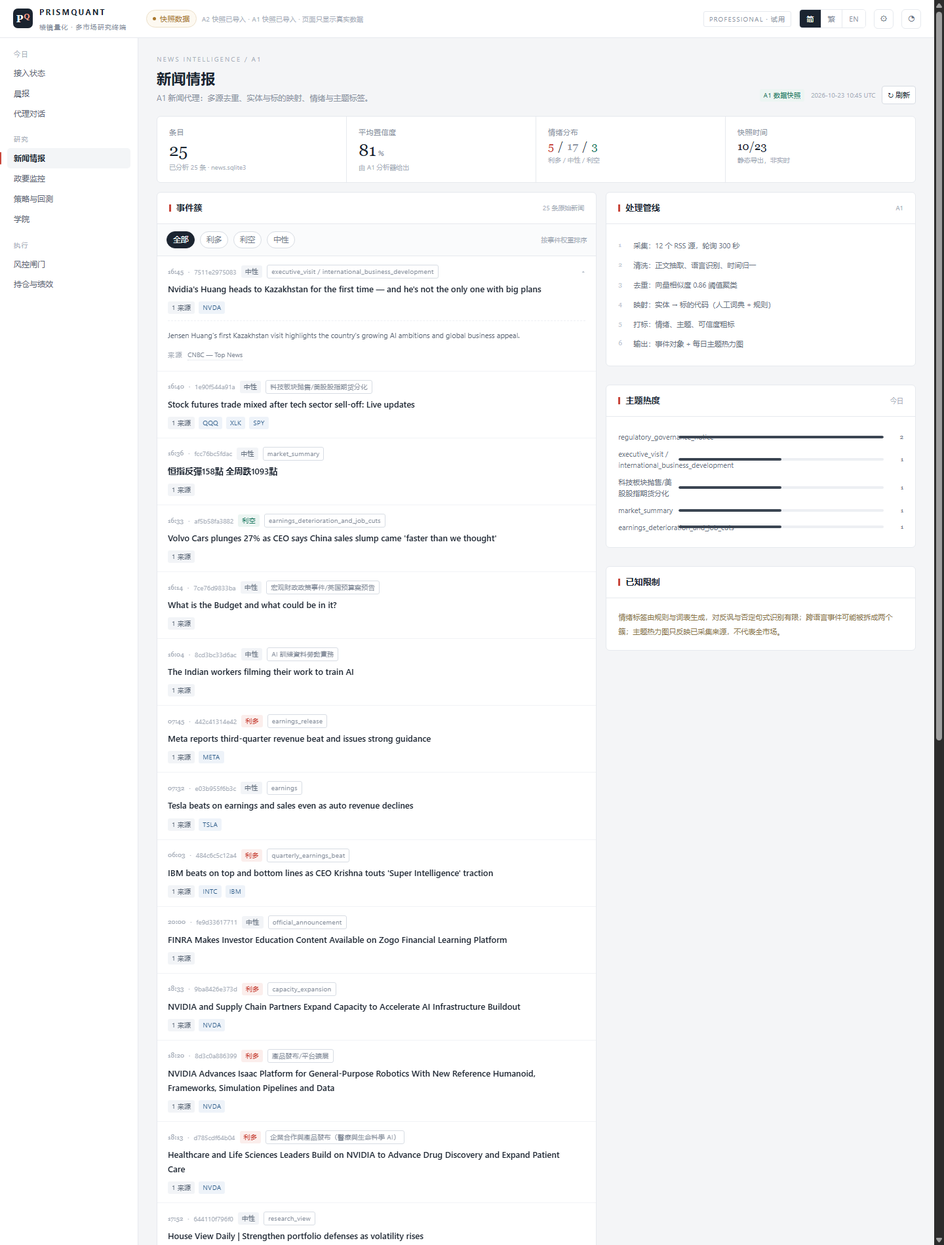
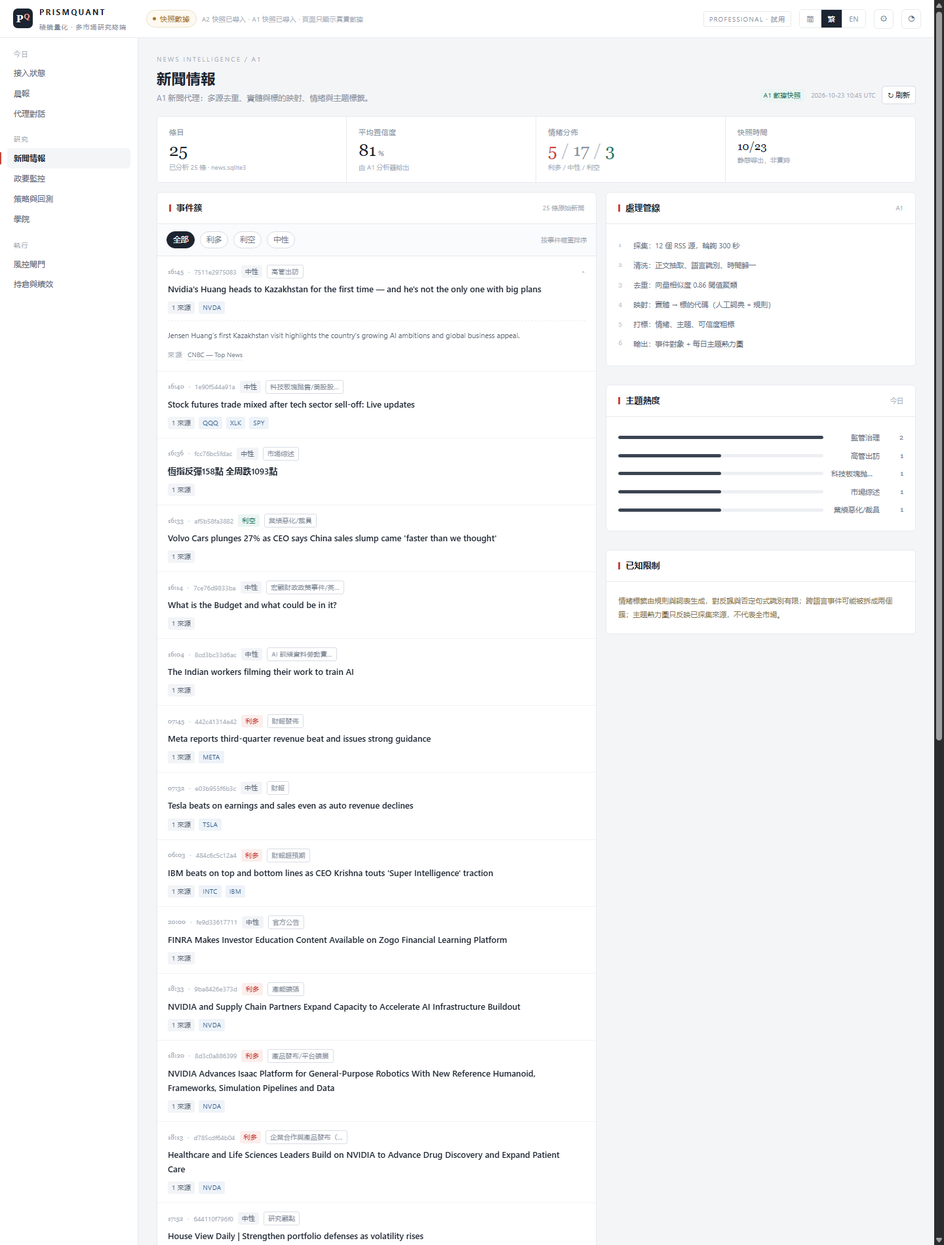
ui: news page polish + Traditional Chinese default
- default language is now Traditional Chinese (zh-Hant); still switchable
- topic labels: map LLM's English underscore topics to short Chinese
  (regulatory_governance_notice -> 監管治理, etc.), compound topics like
  'executive_visit / international_business_development' now resolve
- sentiment distribution digits now full-size, aligned with other stat cards
- topic heat bars: wider label column, right-aligned, ellipsis on overflow
- add missing HANT_CHAR entries (术->術, 细->細)

diff --git a/index.html b/index.html
@@ -498,7 +498,7 @@ dialog::backdrop{background:rgb(27 36 48 / 32%)}
 </style>
 <script>
 /* Simplified -> Traditional (Hong Kong) lookup, generated with OpenCC s2hk. */
-const HANT_CHAR = {"万":"萬","与":"與","专":"專","业":"業","东":"東","两":"兩","个":"個","临":"臨","为":"為","么":"麼","义":"義","书":"書","买":"買","于":"於","亏":"虧","云":"雲","产":"產","亿":"億","仅":"僅","从":"從","仓":"倉","们":"們","价":"價","众":"眾","优":"優","会":"會","伟":"偉","体":"體","余":"餘","债":"債","关":"關","内":"內","写":"寫","决":"決","净":"淨","准":"準","减":"減","凭":"憑","击":"擊","则":"則","刚":"剛","别":"別","剧":"劇","务":"務","动":"動","势":"勢","区":"區","单":"單","占":"佔","历":"歷","压":"壓","参":"參","发":"發","变":"變","叠":"疊","号":"號","后":"後","吗":"嗎","听":"聽","启":"啓","员":"員","响":"響","围":"圍","国":"國","图":"圖","场":"場","块":"塊","墙":"牆","处":"處","备":"備","复":"復","够":"夠","学":"學","实":"實","对":"對","导":"導","将":"將","尝":"嘗","层":"層","属":"屬","峰":"峯","币":"幣","带":"帶","干":"幹","并":"並","库":"庫","应":"應","开":"開","弃":"棄","张":"張","强":"強","归":"歸","当":"當","录":"錄","征":"徵","径":"徑","态":"態","总":"總","恒":"恆","恶":"惡","愿":"願","托":"託","执":"執","扩":"擴","护":"護","报":"報","拟":"擬","拥":"擁","拦":"攔","择":"擇","挂":"掛","挡":"擋","挥":"揮","损":"損","换":"換","据":"據","撑":"撐","敛":"斂","数":"數","断":"斷","无":"無","时":"時","显":"顯","暂":"暫","机":"機","权":"權","杠":"槓","条":"條","来":"來","极":"極","构":"構","标":"標","样":"樣","档":"檔","检":"檢","棱":"稜","欧":"歐","毕":"畢","汇":"匯","没":"沒","测":"測","济":"濟","浏":"瀏","涨":"漲","点":"點","热":"熱","状":"狀","独":"獨","献":"獻","环":"環","现":"現","电":"電","监":"監","盖":"蓋","盘":"盤","码":"碼","础":"礎","确":"確","稳":"穩","笔":"筆","筛":"篩","签":"籤","类":"類","紧":"緊","约":"約","级":"級","纪":"紀","纯":"純","纳":"納","线":"線","组":"組","终":"終","经":"經","结":"結","绕":"繞","给":"給","绝":"絕","统":"統","绩":"績","绪":"緒","续":"續","维":"維","编":"編","缩":"縮","网":"網","联":"聯","胀":"脹","脑":"腦","腾":"騰","节":"節","获":"獲","装":"裝","见":"見","观":"觀","规":"規","览":"覽","触":"觸","计":"計","订":"訂","认":"認","讨":"討","让":"讓","议":"議","讯":"訊","记":"記","论":"論","讽":"諷","设":"設","访":"訪","证":"證","评":"評","识":"識","词":"詞","试":"試","话":"話","询":"詢","该":"該","详":"詳","语":"語","说":"説","请":"請","读":"讀","课":"課","调":"調","负":"負","贡":"貢","财":"財","败":"敗","账":"賬","货":"貨","质":"質","贴":"貼","贸":"貿","费":"費","资":"資","赖":"賴","赛":"賽","趋":"趨","踪":"蹤","转":"轉","轮":"輪","载":"載","较":"較","输":"輸","辞":"辭","边":"邊","达":"達","过":"過","运":"運","还":"還","这":"這","进":"進","连":"連","迟":"遲","适":"適","选":"選","邮":"郵","采":"採","释":"釋","里":"裡","钟":"鍾","链":"鏈","错":"錯","键":"鍵","镜":"鏡","长":"長","门":"門","闭":"閉","问":"問","间":"間","闸":"閘","闻":"聞","阅":"閲","阈":"閾","队":"隊","阶":"階","际":"際","险":"險","随":"隨","隐":"隱","页":"頁","顶":"頂","项":"項","顺":"順","须":"須","顾":"顧","预":"預","领":"領","频":"頻","题":"題","额":"額","风":"風","验":"驗","黄":"黃"};
+const HANT_CHAR = {"万":"萬","与":"與","专":"專","业":"業","东":"東","两":"兩","个":"個","临":"臨","为":"為","么":"麼","义":"義","书":"書","买":"買","于":"於","亏":"虧","云":"雲","产":"產","亿":"億","仅":"僅","从":"從","仓":"倉","们":"們","价":"價","众":"眾","优":"優","会":"會","伟":"偉","体":"體","余":"餘","债":"債","关":"關","内":"內","写":"寫","决":"決","净":"淨","准":"準","减":"減","凭":"憑","击":"擊","则":"則","刚":"剛","别":"別","剧":"劇","务":"務","动":"動","势":"勢","区":"區","单":"單","占":"佔","历":"歷","压":"壓","参":"參","发":"發","变":"變","叠":"疊","号":"號","后":"後","吗":"嗎","听":"聽","启":"啓","员":"員","响":"響","围":"圍","国":"國","图":"圖","场":"場","块":"塊","墙":"牆","处":"處","备":"備","复":"復","够":"夠","学":"學","实":"實","对":"對","导":"導","将":"將","尝":"嘗","层":"層","属":"屬","峰":"峯","币":"幣","带":"帶","干":"幹","并":"並","库":"庫","应":"應","开":"開","弃":"棄","张":"張","强":"強","归":"歸","当":"當","录":"錄","征":"徵","径":"徑","态":"態","总":"總","恒":"恆","恶":"惡","愿":"願","托":"託","执":"執","扩":"擴","护":"護","报":"報","拟":"擬","拥":"擁","拦":"攔","择":"擇","挂":"掛","挡":"擋","挥":"揮","损":"損","换":"換","据":"據","撑":"撐","敛":"斂","数":"數","断":"斷","无":"無","时":"時","显":"顯","暂":"暫","机":"機","权":"權","杠":"槓","条":"條","来":"來","极":"極","构":"構","标":"標","样":"樣","档":"檔","检":"檢","棱":"稜","欧":"歐","毕":"畢","汇":"匯","没":"沒","测":"測","济":"濟","浏":"瀏","涨":"漲","点":"點","热":"熱","状":"狀","独":"獨","献":"獻","环":"環","现":"現","电":"電","监":"監","盖":"蓋","盘":"盤","码":"碼","础":"礎","确":"確","稳":"穩","笔":"筆","筛":"篩","签":"籤","类":"類","紧":"緊","约":"約","级":"級","纪":"紀","纯":"純","纳":"納","线":"線","组":"組","终":"終","经":"經","结":"結","绕":"繞","给":"給","绝":"絕","统":"統","绩":"績","绪":"緒","续":"續","维":"維","编":"編","缩":"縮","网":"網","联":"聯","胀":"脹","脑":"腦","腾":"騰","节":"節","获":"獲","装":"裝","见":"見","观":"觀","规":"規","览":"覽","触":"觸","计":"計","订":"訂","认":"認","讨":"討","让":"讓","议":"議","讯":"訊","记":"記","论":"論","讽":"諷","设":"設","访":"訪","证":"證","评":"評","识":"識","词":"詞","试":"試","话":"話","询":"詢","该":"該","详":"詳","语":"語","说":"説","请":"請","读":"讀","课":"課","调":"調","负":"負","贡":"貢","财":"財","败":"敗","账":"賬","货":"貨","质":"質","贴":"貼","贸":"貿","费":"費","资":"資","赖":"賴","赛":"賽","趋":"趨","踪":"蹤","转":"轉","轮":"輪","载":"載","较":"較","输":"輸","辞":"辭","边":"邊","达":"達","过":"過","运":"運","还":"還","这":"這","进":"進","连":"連","迟":"遲","适":"適","选":"選","邮":"郵","采":"採","释":"釋","里":"裡","钟":"鍾","链":"鏈","错":"錯","键":"鍵","镜":"鏡","长":"長","门":"門","闭":"閉","问":"問","间":"間","闸":"閘","闻":"聞","阅":"閲","阈":"閾","队":"隊","阶":"階","际":"際","险":"險","随":"隨","隐":"隱","页":"頁","顶":"頂","项":"項","顺":"順","须":"須","顾":"顧","预":"預","领":"領","频":"頻","题":"題","额":"額","风":"風","验":"驗","黄":"黃","术":"術","细":"細"};
 const HANT_PHRASE = {"好贴合历":"好貼合曆","杠杆与现":"槓桿與現","闻归并为":"聞歸併為","组合杠杆":"組合槓桿","周期通常":"週期通常","分钟阅读":"分鐘閲讀","某只标的":"某隻標的","恒生指数":"恒生指數","情绪分布":"情緒分佈","分钟可读":"分鐘可讀","份十分钟":"份十分鐘","仓周期通":"倉週期通","今日干预":"今日干預","复制正文":"複製正文","新闻归并":"新聞歸併","持仓周期":"持倉週期","别强的时":"彆強的時","发布时间":"發佈時間","贴合历史":"貼合曆史","风控干预":"風控干預","十分钟可":"十分鐘可","低杠杆与":"低槓桿與","分钟后自":"分鐘後自","析局公布":"析局公佈","复制正":"複製正","恒生指":"恒生指","杠杆与":"槓桿與","十分钟":"十分鐘","别强的":"彆強的","日干预":"日干預","贴合历":"貼合曆","局公布":"局公佈","绪分布":"緒分佈","周期通":"週期通","低杠杆":"低槓桿","某只标":"某隻標","归并为":"歸併為","控干预":"控干預","今日干":"今日干","合历史":"合曆史","闻归并":"聞歸併","分钟前":"分鐘前","合杠杆":"合槓桿","发布时":"發佈時","已复制":"已複製","分钟阅":"分鐘閲","分钟可":"分鐘可","分钟后":"分鐘後","仓周期":"倉週期","发布":"發佈","干预":"干預","复制":"複製","公布":"公佈","归并":"歸併","分钟":"分鐘","周期":"週期","分布":"分佈","并为":"併為","别强":"彆強","日干":"日干","合历":"合曆","某只":"某隻","杠杆":"槓桿","恒生":"恒生"};
 
 function toHant(s) {
@@ -964,12 +964,58 @@ function viewBriefing() {
 function topicBars() {
   if (LIVE.news) {
     const c = {};
-    LIVE.news.items.forEach(x => { const k = x.topic || (isZh() ? '未分类' : 'Uncategorised'); c[k] = (c[k] || 0) + 1; });
+    LIVE.news.items.forEach(x => { const k = topicLabel(x.topic); c[k] = (c[k] || 0) + 1; });
     return Object.keys(c).map(k => [k, c[k]]).sort((a, b) => b[1] - a[1]).slice(0, 5);
   }
   return [[isZh() ? 'AI 资本开支' : 'AI capex', 9], [isZh() ? '利率路径' : 'Rate path', 7],
           [isZh() ? '出口管制' : 'Export controls', 5], [isZh() ? '资金流' : 'Fund flows', 4],
           [isZh() ? '能源' : 'Energy', 3]];
+}
+// 把 LLM 吐出的英文下划线主题（regulatory_governance_notice）转成短中文标签，
+// 已经是中文的就截断到合理长度。用于主题热度条 + 新闻列表标签。
+const TOPIC_CN = {
+  'regulatory_governance_notice': '监管治理',
+  'regulatory_roundtable_announcement': '监管圆桌',
+  'regulatory': '监管',
+  'earnings_deterioration_and_job_cuts': '业绩恶化/裁员',
+  'earnings_deterioration': '业绩恶化',
+  'quarterly_earnings_beat': '财报超预期',
+  'earnings_release': '财报发布',
+  'earnings': '财报',
+  'market_summary': '市场综述',
+  'macro_policy_commentary': '宏观政策',
+  'macro_policy': '宏观政策',
+  'official_announcement': '官方公告',
+  'capacity_expansion': '产能扩张',
+  'research_view': '研究观点',
+  'executive_visit': '高管出访',
+  'international_business_development': '国际业务',
+  'international_business': '国际业务',
+  'international_markets': '国际市场',
+  'ai': 'AI'
+};
+function topicLabel(raw) {
+  if (!raw) return isZh() ? '未分类' : 'Uncategorised';
+  const s = String(raw).trim();
+  // 已经是中文（含斜杠分隔的复合）→ 截断
+  if (/[\u4e00-\u9fff]/.test(s)) {
+    return s.length > 10 ? s.slice(0, 10) + '…' : s;
+  }
+  const key = s.toLowerCase();
+  // 精确匹配完整串
+  if (TOPIC_CN[key]) return TOPIC_CN[key];
+  // 复合（含 / 或空格）→ 逐段匹配，取第一个命中的
+  const parts = s.split(/[\/\s]+/).filter(Boolean);
+  for (const p of parts) {
+    if (TOPIC_CN[p.toLowerCase()]) return TOPIC_CN[p.toLowerCase()];
+  }
+  // 单段英文 → 去掉下划线取首词再匹配
+  const first = s.split(/[\/\s]+/)[0] || '';
+  const seg = first.split('_')[0];
+  if (TOPIC_CN[seg]) return TOPIC_CN[seg];
+  // 兜底：去掉下划线、首字母大写，截断
+  const cleaned = s.replace(/[_-]+/g, ' ');
+  return cleaned.length > 12 ? cleaned.slice(0, 12) + '…' : cleaned;
 }
 function newsItems() {
   if (!LIVE.news) return D.events;
@@ -978,7 +1024,7 @@ function newsItems() {
     time: x.published_at ? fmtTime(x.published_at, false) : '',
     srcCount: 1,
     sentiment: (x.sentiment === 'pos' || x.sentiment === 'neg') ? x.sentiment : 'neu',
-    topic: x.topic || (isZh() ? '未分类' : 'Uncategorised'),
+    topic: topicLabel(x.topic),
     title: x.title || (isZh() ? '（无标题）' : '(untitled)'),
     summary: x.summary || x.reasoning || '',
     tags: (x.tickers || []).slice(0, 4),
@@ -996,7 +1042,7 @@ function liveNewsStats(items) {
   return `<div class="stats">
     <div class="stat"><div class="k">${isZh() ? '条目' : 'Items'}</div><div class="v">${items.length}</div><div class="d">${isZh() ? '已分析 ' + items.filter(x => x.analyzed).length + ' 条 · ' : ''}${esc(src)}</div></div>
     <div class="stat"><div class="k">${isZh() ? '平均置信度' : 'Mean confidence'}</div><div class="v">${avg === null ? '—' : (avg * 100).toFixed(0) + '<small>%</small>'}</div><div class="d">${isZh() ? '由 A1 分析器给出' : 'from the A1 analyser'}</div></div>
-    <div class="stat"><div class="k">${isZh() ? '情绪分布' : 'Sentiment'}</div><div class="v" style="font-size:17px;letter-spacing:1px"><span class="up">${c.pos}</span> / <span style="color:#8a929f">${c.neu}</span> / <span class="down">${c.neg}</span></div><div class="d">${isZh() ? '利多 / 中性 / 利空' : 'bull / neutral / bear'}</div></div>
+    <div class="stat"><div class="k">${isZh() ? '情绪分布' : 'Sentiment'}</div><div class="v"><span class="up">${c.pos}</span><span style="color:#c3cad4"> / </span><span style="color:#8a929f">${c.neu}</span><span style="color:#c3cad4"> / </span><span class="down">${c.neg}</span></div><div class="d">${isZh() ? '利多 / 中性 / 利空' : 'bull / neutral / bear'}</div></div>
     <div class="stat"><div class="k">${isZh() ? '快照时间' : 'Snapshot'}</div><div class="v" style="font-size:17px">${esc((LIVE.news.generated_at || '').slice(5, 10).replace('-', '/'))}</div><div class="d">${isZh() ? '静态导出，非实时' : 'static export, not live'}</div></div>
   </div>`;
 }
@@ -1076,10 +1122,10 @@ function viewNews() {
              ${(() => {
       const bars = topicBars();
       const max = Math.max.apply(null, bars.map(b => b[1])) || 1;
-      return bars.map(([k, v]) => `<div style="display:grid;grid-template-columns:82px 1fr 20px;gap:10px;align-items:center;padding:4px 0">
-        <span style="font-size:11px;color:#67707d">${esc(k)}</span>
-        <span class="bar" style="height:4px"><i style="width:${(v / max * 100).toFixed(0)}%;background:#3b4552"></i></span>
-        <span class="num" style="font-size:10px;text-align:right;color:#7b8492">${v}</span></div>`).join('');
+      return bars.map(([k, v]) => `<div style="display:grid;grid-template-columns:1fr 74px 24px;gap:12px;align-items:center;padding:5px 0">
+        <span class="bar" style="height:5px"><i style="width:${(v / max * 100).toFixed(0)}%;background:#3b4552"></i></span>
+        <span style="font-size:11px;color:#67707d;text-align:right;white-space:nowrap;overflow:hidden;text-overflow:ellipsis">${esc(k)}</span>
+        <span class="num" style="font-size:11px;text-align:right;color:#7b8492">${v}</span></div>`).join('');
     })()}
            </div>
          </section>
@@ -2026,7 +2072,7 @@ function setLang(l, silent) {
 }
 function initLang() {
   const saved = lsGet('pq_lang');
-  const lm = (location.search.match(/[?&]lang=(zh|hant|en)/) || [])[1] || saved || 'zh';
+  const lm = (location.search.match(/[?&]lang=(zh|hant|en)/) || [])[1] || saved || 'hant';
   setLang(lm, true);
   ['zh', 'hant', 'en'].forEach(k => {
     const b = document.getElementById('lang-' + k);

diff --git a/src/p0_hant.js b/src/p0_hant.js
@@ -1,6 +1,6 @@
 <script>
 /* Simplified -> Traditional (Hong Kong) lookup, generated with OpenCC s2hk. */
-const HANT_CHAR = {"万":"萬","与":"與","专":"專","业":"業","东":"東","两":"兩","个":"個","临":"臨","为":"為","么":"麼","义":"義","书":"書","买":"買","于":"於","亏":"虧","云":"雲","产":"產","亿":"億","仅":"僅","从":"從","仓":"倉","们":"們","价":"價","众":"眾","优":"優","会":"會","伟":"偉","体":"體","余":"餘","债":"債","关":"關","内":"內","写":"寫","决":"決","净":"淨","准":"準","减":"減","凭":"憑","击":"擊","则":"則","刚":"剛","别":"別","剧":"劇","务":"務","动":"動","势":"勢","区":"區","单":"單","占":"佔","历":"歷","压":"壓","参":"參","发":"發","变":"變","叠":"疊","号":"號","后":"後","吗":"嗎","听":"聽","启":"啓","员":"員","响":"響","围":"圍","国":"國","图":"圖","场":"場","块":"塊","墙":"牆","处":"處","备":"備","复":"復","够":"夠","学":"學","实":"實","对":"對","导":"導","将":"將","尝":"嘗","层":"層","属":"屬","峰":"峯","币":"幣","带":"帶","干":"幹","并":"並","库":"庫","应":"應","开":"開","弃":"棄","张":"張","强":"強","归":"歸","当":"當","录":"錄","征":"徵","径":"徑","态":"態","总":"總","恒":"恆","恶":"惡","愿":"願","托":"託","执":"執","扩":"擴","护":"護","报":"報","拟":"擬","拥":"擁","拦":"攔","择":"擇","挂":"掛","挡":"擋","挥":"揮","损":"損","换":"換","据":"據","撑":"撐","敛":"斂","数":"數","断":"斷","无":"無","时":"時","显":"顯","暂":"暫","机":"機","权":"權","杠":"槓","条":"條","来":"來","极":"極","构":"構","标":"標","样":"樣","档":"檔","检":"檢","棱":"稜","欧":"歐","毕":"畢","汇":"匯","没":"沒","测":"測","济":"濟","浏":"瀏","涨":"漲","点":"點","热":"熱","状":"狀","独":"獨","献":"獻","环":"環","现":"現","电":"電","监":"監","盖":"蓋","盘":"盤","码":"碼","础":"礎","确":"確","稳":"穩","笔":"筆","筛":"篩","签":"籤","类":"類","紧":"緊","约":"約","级":"級","纪":"紀","纯":"純","纳":"納","线":"線","组":"組","终":"終","经":"經","结":"結","绕":"繞","给":"給","绝":"絕","统":"統","绩":"績","绪":"緒","续":"續","维":"維","编":"編","缩":"縮","网":"網","联":"聯","胀":"脹","脑":"腦","腾":"騰","节":"節","获":"獲","装":"裝","见":"見","观":"觀","规":"規","览":"覽","触":"觸","计":"計","订":"訂","认":"認","讨":"討","让":"讓","议":"議","讯":"訊","记":"記","论":"論","讽":"諷","设":"設","访":"訪","证":"證","评":"評","识":"識","词":"詞","试":"試","话":"話","询":"詢","该":"該","详":"詳","语":"語","说":"説","请":"請","读":"讀","课":"課","调":"調","负":"負","贡":"貢","财":"財","败":"敗","账":"賬","货":"貨","质":"質","贴":"貼","贸":"貿","费":"費","资":"資","赖":"賴","赛":"賽","趋":"趨","踪":"蹤","转":"轉","轮":"輪","载":"載","较":"較","输":"輸","辞":"辭","边":"邊","达":"達","过":"過","运":"運","还":"還","这":"這","进":"進","连":"連","迟":"遲","适":"適","选":"選","邮":"郵","采":"採","释":"釋","里":"裡","钟":"鍾","链":"鏈","错":"錯","键":"鍵","镜":"鏡","长":"長","门":"門","闭":"閉","问":"問","间":"間","闸":"閘","闻":"聞","阅":"閲","阈":"閾","队":"隊","阶":"階","际":"際","险":"險","随":"隨","隐":"隱","页":"頁","顶":"頂","项":"項","顺":"順","须":"須","顾":"顧","预":"預","领":"領","频":"頻","题":"題","额":"額","风":"風","验":"驗","黄":"黃"};
+const HANT_CHAR = {"万":"萬","与":"與","专":"專","业":"業","东":"東","两":"兩","个":"個","临":"臨","为":"為","么":"麼","义":"義","书":"書","买":"買","于":"於","亏":"虧","云":"雲","产":"產","亿":"億","仅":"僅","从":"從","仓":"倉","们":"們","价":"價","众":"眾","优":"優","会":"會","伟":"偉","体":"體","余":"餘","债":"債","关":"關","内":"內","写":"寫","决":"決","净":"淨","准":"準","减":"減","凭":"憑","击":"擊","则":"則","刚":"剛","别":"別","剧":"劇","务":"務","动":"動","势":"勢","区":"區","单":"單","占":"佔","历":"歷","压":"壓","参":"參","发":"發","变":"變","叠":"疊","号":"號","后":"後","吗":"嗎","听":"聽","启":"啓","员":"員","响":"響","围":"圍","国":"國","图":"圖","场":"場","块":"塊","墙":"牆","处":"處","备":"備","复":"復","够":"夠","学":"學","实":"實","对":"對","导":"導","将":"將","尝":"嘗","层":"層","属":"屬","峰":"峯","币":"幣","带":"帶","干":"幹","并":"並","库":"庫","应":"應","开":"開","弃":"棄","张":"張","强":"強","归":"歸","当":"當","录":"錄","征":"徵","径":"徑","态":"態","总":"總","恒":"恆","恶":"惡","愿":"願","托":"託","执":"執","扩":"擴","护":"護","报":"報","拟":"擬","拥":"擁","拦":"攔","择":"擇","挂":"掛","挡":"擋","挥":"揮","损":"損","换":"換","据":"據","撑":"撐","敛":"斂","数":"數","断":"斷","无":"無","时":"時","显":"顯","暂":"暫","机":"機","权":"權","杠":"槓","条":"條","来":"來","极":"極","构":"構","标":"標","样":"樣","档":"檔","检":"檢","棱":"稜","欧":"歐","毕":"畢","汇":"匯","没":"沒","测":"測","济":"濟","浏":"瀏","涨":"漲","点":"點","热":"熱","状":"狀","独":"獨","献":"獻","环":"環","现":"現","电":"電","监":"監","盖":"蓋","盘":"盤","码":"碼","础":"礎","确":"確","稳":"穩","笔":"筆","筛":"篩","签":"籤","类":"類","紧":"緊","约":"約","级":"級","纪":"紀","纯":"純","纳":"納","线":"線","组":"組","终":"終","经":"經","结":"結","绕":"繞","给":"給","绝":"絕","统":"統","绩":"績","绪":"緒","续":"續","维":"維","编":"編","缩":"縮","网":"網","联":"聯","胀":"脹","脑":"腦","腾":"騰","节":"節","获":"獲","装":"裝","见":"見","观":"觀","规":"規","览":"覽","触":"觸","计":"計","订":"訂","认":"認","讨":"討","让":"讓","议":"議","讯":"訊","记":"記","论":"論","讽":"諷","设":"設","访":"訪","证":"證","评":"評","识":"識","词":"詞","试":"試","话":"話","询":"詢","该":"該","详":"詳","语":"語","说":"説","请":"請","读":"讀","课":"課","调":"調","负":"負","贡":"貢","财":"財","败":"敗","账":"賬","货":"貨","质":"質","贴":"貼","贸":"貿","费":"費","资":"資","赖":"賴","赛":"賽","趋":"趨","踪":"蹤","转":"轉","轮":"輪","载":"載","较":"較","输":"輸","辞":"辭","边":"邊","达":"達","过":"過","运":"運","还":"還","这":"這","进":"進","连":"連","迟":"遲","适":"適","选":"選","邮":"郵","采":"採","释":"釋","里":"裡","钟":"鍾","链":"鏈","错":"錯","键":"鍵","镜":"鏡","长":"長","门":"門","闭":"閉","问":"問","间":"間","闸":"閘","闻":"聞","阅":"閲","阈":"閾","队":"隊","阶":"階","际":"際","险":"險","随":"隨","隐":"隱","页":"頁","顶":"頂","项":"項","顺":"順","须":"須","顾":"顧","预":"預","领":"領","频":"頻","题":"題","额":"額","风":"風","验":"驗","黄":"黃","术":"術","细":"細"};
 const HANT_PHRASE = {"好贴合历":"好貼合曆","杠杆与现":"槓桿與現","闻归并为":"聞歸併為","组合杠杆":"組合槓桿","周期通常":"週期通常","分钟阅读":"分鐘閲讀","某只标的":"某隻標的","恒生指数":"恒生指數","情绪分布":"情緒分佈","分钟可读":"分鐘可讀","份十分钟":"份十分鐘","仓周期通":"倉週期通","今日干预":"今日干預","复制正文":"複製正文","新闻归并":"新聞歸併","持仓周期":"持倉週期","别强的时":"彆強的時","发布时间":"發佈時間","贴合历史":"貼合曆史","风控干预":"風控干預","十分钟可":"十分鐘可","低杠杆与":"低槓桿與","分钟后自":"分鐘後自","析局公布":"析局公佈","复制正":"複製正","恒生指":"恒生指","杠杆与":"槓桿與","十分钟":"十分鐘","别强的":"彆強的","日干预":"日干預","贴合历":"貼合曆","局公布":"局公佈","绪分布":"緒分佈","周期通":"週期通","低杠杆":"低槓桿","某只标":"某隻標","归并为":"歸併為","控干预":"控干預","今日干":"今日干","合历史":"合曆史","闻归并":"聞歸併","分钟前":"分鐘前","合杠杆":"合槓桿","发布时":"發佈時","已复制":"已複製","分钟阅":"分鐘閲","分钟可":"分鐘可","分钟后":"分鐘後","仓周期":"倉週期","发布":"發佈","干预":"干預","复制":"複製","公布":"公佈","归并":"歸併","分钟":"分鐘","周期":"週期","分布":"分佈","并为":"併為","别强":"彆強","日干":"日干","合历":"合曆","某只":"某隻","杠杆":"槓桿","恒生":"恒生"};
 
 function toHant(s) {

diff --git a/src/p4a_views.js b/src/p4a_views.js
@@ -181,12 +181,58 @@ function viewBriefing() {
 function topicBars() {
   if (LIVE.news) {
     const c = {};
-    LIVE.news.items.forEach(x => { const k = x.topic || (isZh() ? '未分类' : 'Uncategorised'); c[k] = (c[k] || 0) + 1; });
+    LIVE.news.items.forEach(x => { const k = topicLabel(x.topic); c[k] = (c[k] || 0) + 1; });
     return Object.keys(c).map(k => [k, c[k]]).sort((a, b) => b[1] - a[1]).slice(0, 5);
   }
   return [[isZh() ? 'AI 资本开支' : 'AI capex', 9], [isZh() ? '利率路径' : 'Rate path', 7],
           [isZh() ? '出口管制' : 'Export controls', 5], [isZh() ? '资金流' : 'Fund flows', 4],
           [isZh() ? '能源' : 'Energy', 3]];
+}
+// 把 LLM 吐出的英文下划线主题（regulatory_governance_notice）转成短中文标签，
+// 已经是中文的就截断到合理长度。用于主题热度条 + 新闻列表标签。
+const TOPIC_CN = {
+  'regulatory_governance_notice': '监管治理',
+  'regulatory_roundtable_announcement': '监管圆桌',
+  'regulatory': '监管',
+  'earnings_deterioration_and_job_cuts': '业绩恶化/裁员',
+  'earnings_deterioration': '业绩恶化',
+  'quarterly_earnings_beat': '财报超预期',
+  'earnings_release': '财报发布',
+  'earnings': '财报',
+  'market_summary': '市场综述',
+  'macro_policy_commentary': '宏观政策',
+  'macro_policy': '宏观政策',
+  'official_announcement': '官方公告',
+  'capacity_expansion': '产能扩张',
+  'research_view': '研究观点',
+  'executive_visit': '高管出访',
+  'international_business_development': '国际业务',
+  'international_business': '国际业务',
+  'international_markets': '国际市场',
+  'ai': 'AI'
+};
+function topicLabel(raw) {
+  if (!raw) return isZh() ? '未分类' : 'Uncategorised';
+  const s = String(raw).trim();
+  // 已经是中文（含斜杠分隔的复合）→ 截断
+  if (/[\u4e00-\u9fff]/.test(s)) {
+    return s.length > 10 ? s.slice(0, 10) + '…' : s;
+  }
+  const key = s.toLowerCase();
+  // 精确匹配完整串
+  if (TOPIC_CN[key]) return TOPIC_CN[key];
+  // 复合（含 / 或空格）→ 逐段匹配，取第一个命中的
+  const parts = s.split(/[\/\s]+/).filter(Boolean);
+  for (const p of parts) {
+    if (TOPIC_CN[p.toLowerCase()]) return TOPIC_CN[p.toLowerCase()];
+  }
+  // 单段英文 → 去掉下划线取首词再匹配
+  const first = s.split(/[\/\s]+/)[0] || '';
+  const seg = first.split('_')[0];
+  if (TOPIC_CN[seg]) return TOPIC_CN[seg];
+  // 兜底：去掉下划线、首字母大写，截断
+  const cleaned = s.replace(/[_-]+/g, ' ');
+  return cleaned.length > 12 ? cleaned.slice(0, 12) + '…' : cleaned;
 }
 function newsItems() {
   if (!LIVE.news) return D.events;
@@ -195,7 +241,7 @@ function newsItems() {
     time: x.published_at ? fmtTime(x.published_at, false) : '',
     srcCount: 1,
     sentiment: (x.sentiment === 'pos' || x.sentiment === 'neg') ? x.sentiment : 'neu',
-    topic: x.topic || (isZh() ? '未分类' : 'Uncategorised'),
+    topic: topicLabel(x.topic),
     title: x.title || (isZh() ? '（无标题）' : '(untitled)'),
     summary: x.summary || x.reasoning || '',
     tags: (x.tickers || []).slice(0, 4),
@@ -213,7 +259,7 @@ function liveNewsStats(items) {
   return `<div class="stats">
     <div class="stat"><div class="k">${isZh() ? '条目' : 'Items'}</div><div class="v">${items.length}</div><div class="d">${isZh() ? '已分析 ' + items.filter(x => x.analyzed).length + ' 条 · ' : ''}${esc(src)}</div></div>
     <div class="stat"><div class="k">${isZh() ? '平均置信度' : 'Mean confidence'}</div><div class="v">${avg === null ? '—' : (avg * 100).toFixed(0) + '<small>%</small>'}</div><div class="d">${isZh() ? '由 A1 分析器给出' : 'from the A1 analyser'}</div></div>
-    <div class="stat"><div class="k">${isZh() ? '情绪分布' : 'Sentiment'}</div><div class="v" style="font-size:17px;letter-spacing:1px"><span class="up">${c.pos}</span> / <span style="color:#8a929f">${c.neu}</span> / <span class="down">${c.neg}</span></div><div class="d">${isZh() ? '利多 / 中性 / 利空' : 'bull / neutral / bear'}</div></div>
+    <div class="stat"><div class="k">${isZh() ? '情绪分布' : 'Sentiment'}</div><div class="v"><span class="up">${c.pos}</span><span style="color:#c3cad4"> / </span><span style="color:#8a929f">${c.neu}</span><span style="color:#c3cad4"> / </span><span class="down">${c.neg}</span></div><div class="d">${isZh() ? '利多 / 中性 / 利空' : 'bull / neutral / bear'}</div></div>
     <div class="stat"><div class="k">${isZh() ? '快照时间' : 'Snapshot'}</div><div class="v" style="font-size:17px">${esc((LIVE.news.generated_at || '').slice(5, 10).replace('-', '/'))}</div><div class="d">${isZh() ? '静态导出，非实时' : 'static export, not live'}</div></div>
   </div>`;
 }
@@ -293,10 +339,10 @@ function viewNews() {
              ${(() => {
       const bars = topicBars();
       const max = Math.max.apply(null, bars.map(b => b[1])) || 1;
-      return bars.map(([k, v]) => `<div style="display:grid;grid-template-columns:82px 1fr 20px;gap:10px;align-items:center;padding:4px 0">
-        <span style="font-size:11px;color:#67707d">${esc(k)}</span>
-        <span class="bar" style="height:4px"><i style="width:${(v / max * 100).toFixed(0)}%;background:#3b4552"></i></span>
-        <span class="num" style="font-size:10px;text-align:right;color:#7b8492">${v}</span></div>`).join('');
+      return bars.map(([k, v]) => `<div style="display:grid;grid-template-columns:1fr 74px 24px;gap:12px;align-items:center;padding:5px 0">
+        <span class="bar" style="height:5px"><i style="width:${(v / max * 100).toFixed(0)}%;background:#3b4552"></i></span>
+        <span style="font-size:11px;color:#67707d;text-align:right;white-space:nowrap;overflow:hidden;text-overflow:ellipsis">${esc(k)}</span>
+        <span class="num" style="font-size:11px;text-align:right;color:#7b8492">${v}</span></div>`).join('');
     })()}
            </div>
          </section>

diff --git a/src/p5_boot.js b/src/p5_boot.js
@@ -445,7 +445,7 @@ function setLang(l, silent) {
 }
 function initLang() {
   const saved = lsGet('pq_lang');
-  const lm = (location.search.match(/[?&]lang=(zh|hant|en)/) || [])[1] || saved || 'zh';
+  const lm = (location.search.match(/[?&]lang=(zh|hant|en)/) || [])[1] || saved || 'hant';
   setLang(lm, true);
   ['zh', 'hant', 'en'].forEach(k => {
     const b = document.getElementById('lang-' + k);
